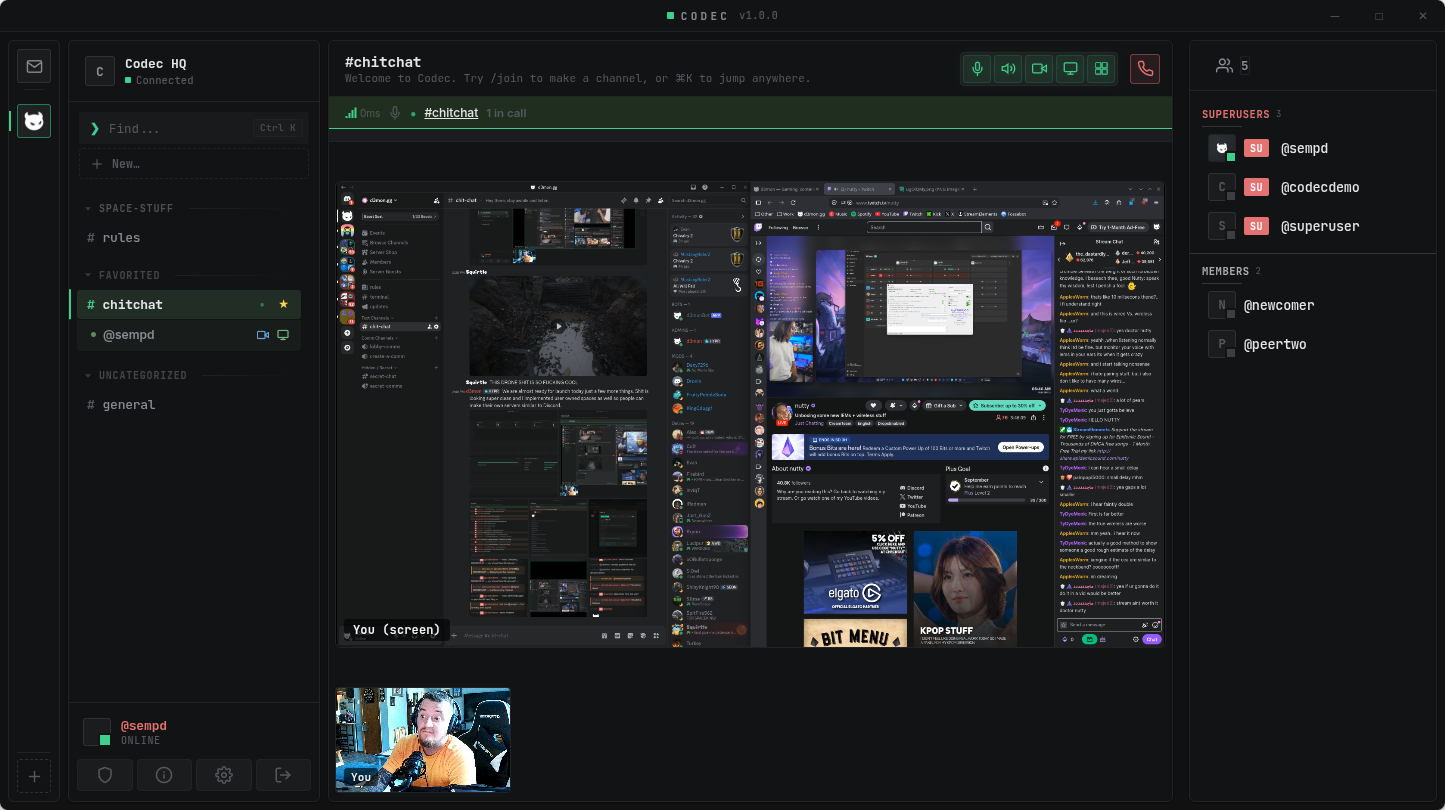
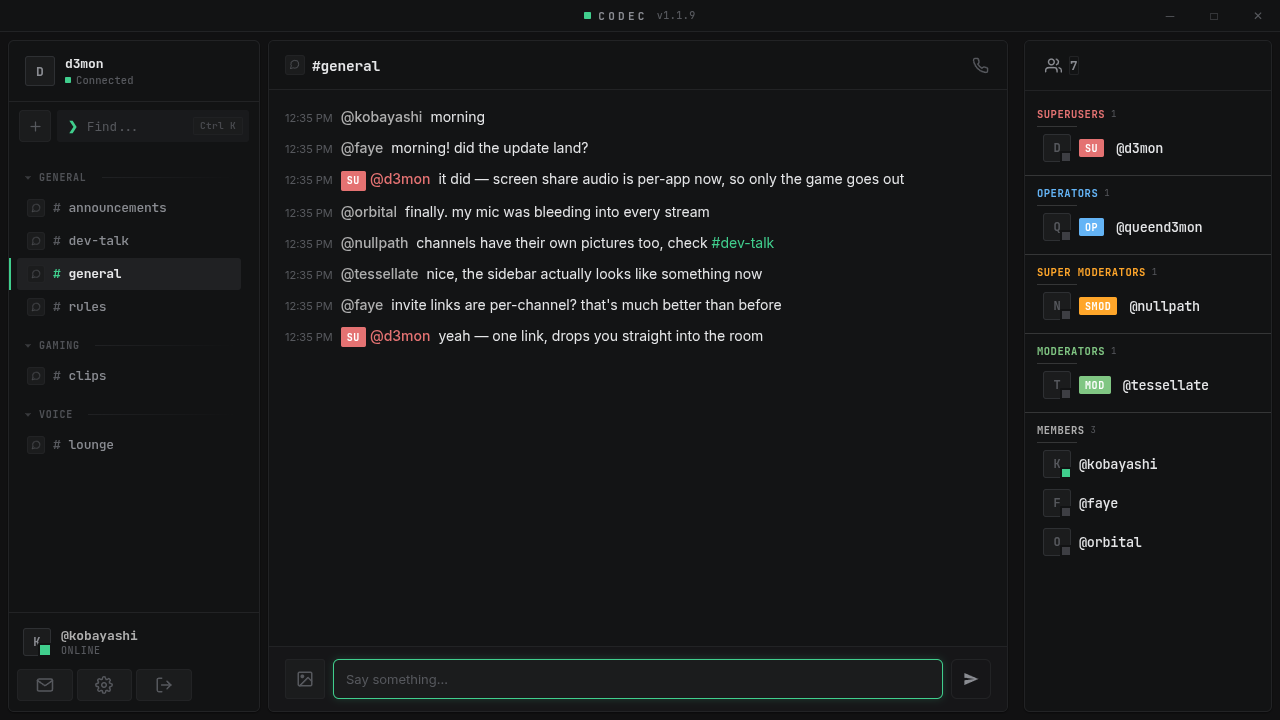
One server is one Guild
Spaces are gone. A Codec server is a single Guild with its own channels,
ranks and rules, and everyone who joins is already in it. Invite links
belong to a channel now, and channels have their own pictures.

Adds a Ranks section, and a new screenshot.

diff --git a/README.md b/README.md
@@ -5,11 +5,13 @@
 **Self-hosted voice, video and text chat. You run the server; nobody else owns
 the room.**
 
-Codec is a desktop chat app and the server behind it. Spaces with their own
-channels, roles and rules. Voice, video and screen sharing that go straight
-between the people in the call. Direct messages that filter out strangers until
-you say otherwise. And an admin panel that tells a server owner what is actually
-happening on their instance, rather than leaving them to guess.
+Codec is a desktop chat app and the server behind it. One server is one Guild:
+its own channels, ranks, rules and members, and everyone who joins is in it. No
+layer of sub-communities to set up before anyone can say anything. Voice, video
+and screen sharing go straight between the people in the call. Direct messages
+filter out strangers until you say otherwise. And an admin panel tells a server
+owner what is actually happening on their instance, rather than leaving them to
+guess.
 
 [**Download the latest release →**](../../releases/latest)
 
@@ -35,14 +37,30 @@ happening on their instance, rather than leaving them to guess.
 
 ### Organise
 
-- **Spaces** — your own community inside a server, with its own channels,
-  categories, roles, bans and rules page.
+- **One server, one Guild.** Its channels, categories, ranks, bans and rules
+  page — and everybody who joins is already in it. Nothing to join first.
+- **Channels have their own identity.** A name, a topic, a description and a
+  picture that shows beside it in the list and in the header.
+- **Invite links belong to a channel**, public or private. Share one and it
+  takes whoever follows it straight into that room.
 - **Drag to arrange.** Channels between categories, categories into whatever
   order you want, and anything into Favorited to keep it at hand.
-- **Every space keeps a `#rules` and a `#general`.** They can be renamed; they
-  cannot be deleted out from under the people using them.
-- **Anyone can make a channel.** Only the people running the space decide where
+- **`#rules` and `#general` are always there.** They can be renamed; they
+  cannot be deleted out from under the people using them, and everyone is in
+  both from the moment they join.
+- **Anyone can make a channel.** Only the people running the guild decide where
   it is filed.
+
+### Ranks
+
+Member → Moderator → Super Moderator → Operator → Superuser.
+
+- **Moderator** moderates the channels they were promoted in.
+- **Super Moderator** does the same in every channel on the server, and can
+  lock or unlock any of them.
+- **Operator** runs the guild: its name, its description, its picture, its
+  channels and its members.
+- **Superuser** runs the server, and has the admin panel.
 
 ### Messages
 
@@ -64,18 +82,18 @@ happening on their instance, rather than leaving them to guess.
 - **An admin panel worth opening** — who is online against how many connections,
   message volume over a fortnight, the busiest channels and people, live calls,
   storage and what compression saved.
-- **Space accountability.** Open reports per space, how long the oldest has sat,
-  and whether the space's own staff are clearing them or you are doing it for
-  them.
+- **Accountability.** Open reports, how long the oldest has sat, and whether
+  the guild's own staff are clearing them or you are doing it for them.
 - **A full audit log**, filterable by action and by person.
-- **Reports** from any message, profile or channel, reaching that space's
+- **Reports** from any message, profile or channel, reaching the guild's
   moderators and the server owner.
 - **Switches that matter**: avatar uploads, image uploads, and the size limit,
   all changeable without a restart.
 
 ### The app
 
-- **A terminal theme** — dark, monospace chrome, one accent colour.
+- **A terminal look** — monospace chrome and one accent colour, in dark or
+  light. Dark is the default.
 - **Adjustable interface scale**, 80% to 150%.
 - **A mobile layout that works**, with both side columns as drawers and every
   admin table folded into readable cards.
@@ -99,6 +117,10 @@ systemd service called `codec` on port 6670.
 
 **The first sign-in is `superuser` / `admin`, and you are made to change it
 before you can do anything else.**
+
+A new server starts as a guild called **Test-Guild** with `#rules` and
+`#general` in it. Rename it to whatever your community is called — click its
+name at the top of the sidebar.
 
 Put a reverse proxy in front of it, terminate TLS there, and point the client at
 your domain. Example nginx:
